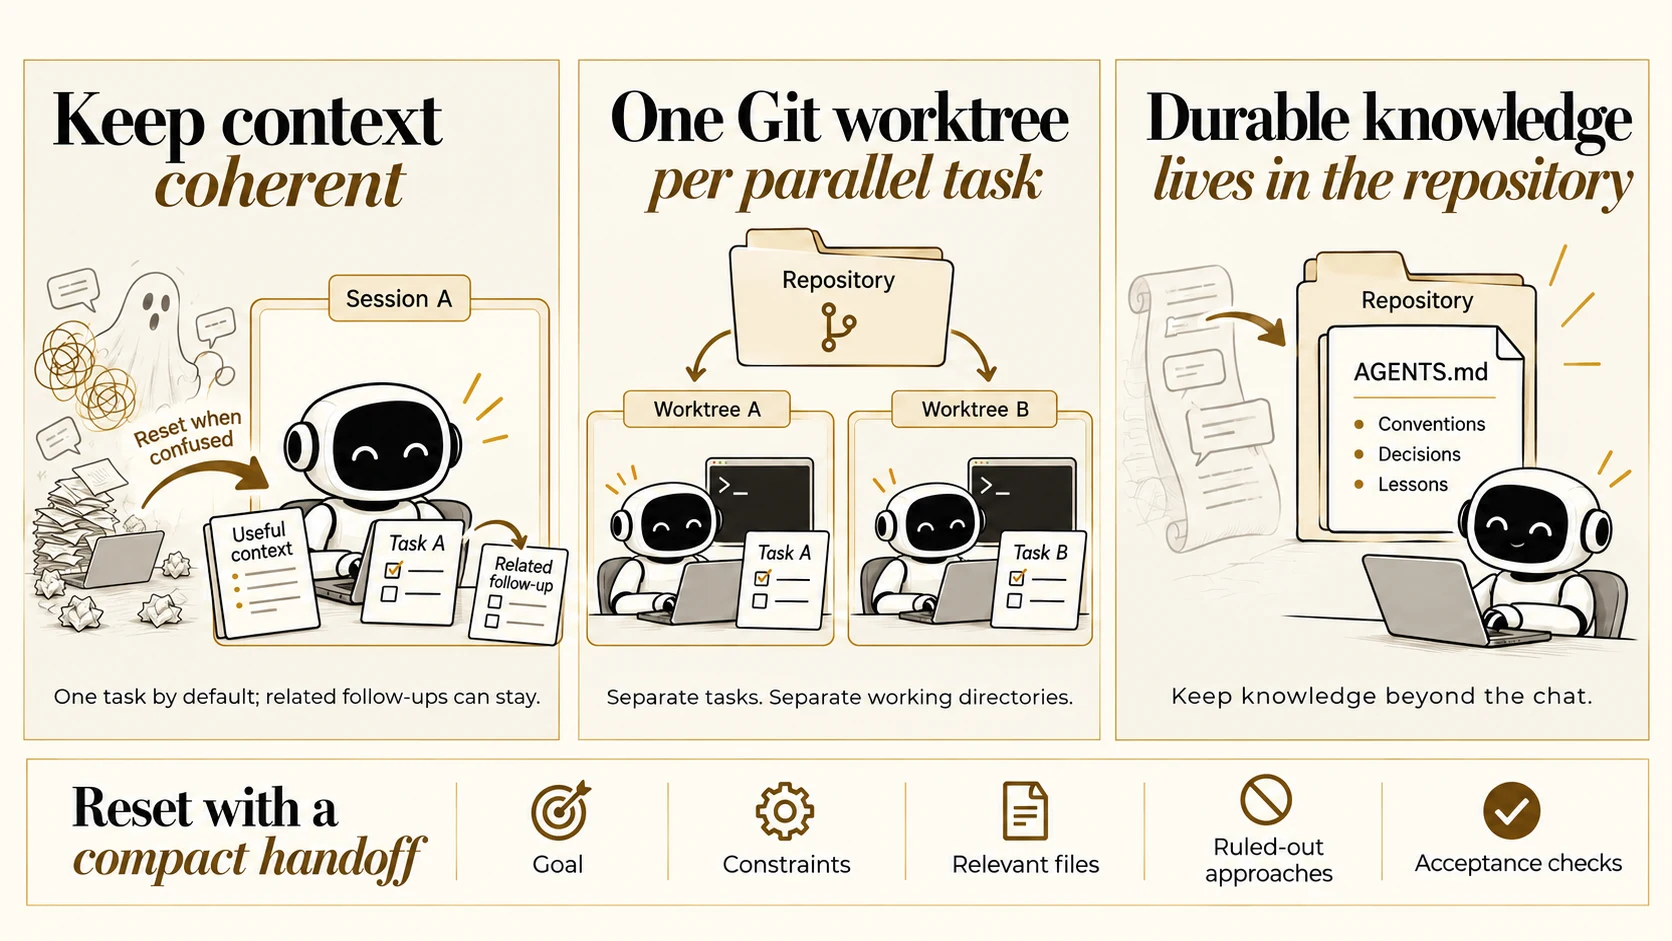
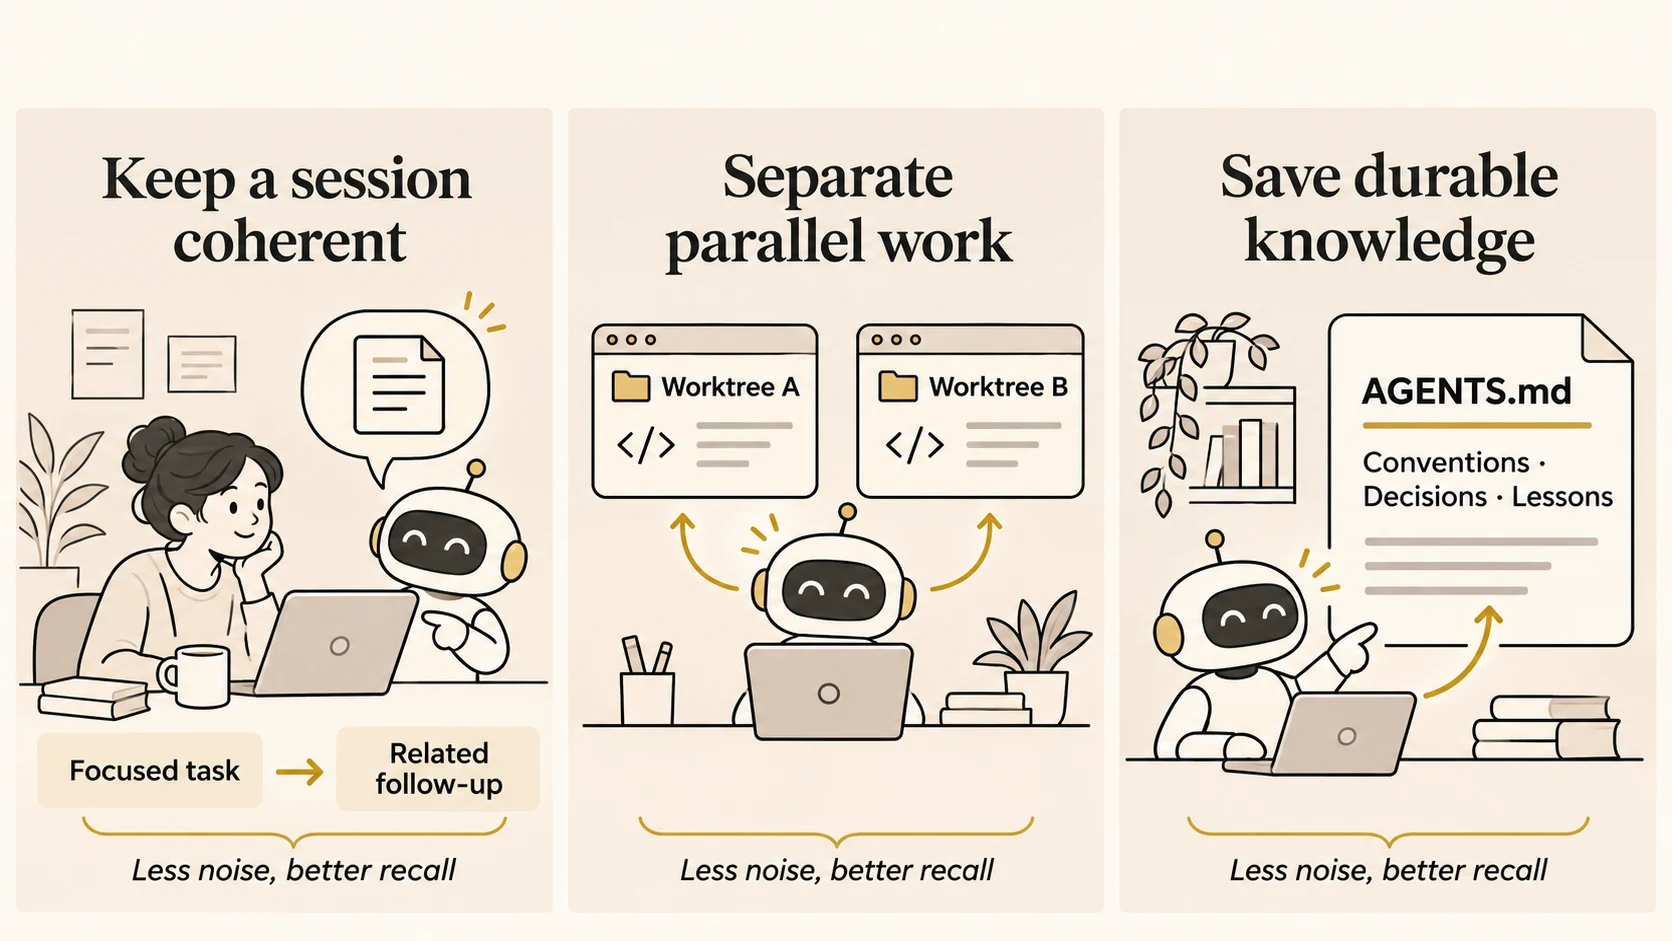
feat(slides): clarify context and quality checks

diff --git a/media/README.md b/media/README.md
@@ -4,10 +4,11 @@ The rule illustrations use built-in image generation and a shared editorial
 style. `devex-agentex.webp`, `one-command-setup.webp`, `session-hygiene.webp`,
 and `know-thy-tools.webp` are the visual references for new and restyled art.
 The quality-gates practice example uses a generated Ruff F841 feedback
-loop; the setup contrast illustrates a shared
-one-command entry point. The automation examples demonstrate dependency
-updates and PR screenshot workflows. The tool-affordance examples were checked against
-current official docs. Final assets are WebP; the social card is the deck's
+loop. Context rot and its management are shown in a paired illustration
+sequence. The setup contrast illustrates a shared one-command entry point.
+The automation examples demonstrate dependency updates and PR screenshot
+workflows. The tool-affordance examples were checked against current official
+docs. Final assets are WebP; the social card is the deck's
 typography and palette reference. The social card already matched the theme
 and was retained.
 
@@ -104,56 +105,25 @@ brown cast and heavy shading, and retain all three example flows and labels.
 
 The closing example shows a feature request flowing through coding, a pull
 request with UI screenshots and a red-and-green diff, automated quality gates,
-an independent review loop, and agent-led merge. A magnified inset makes the
-example's strict quality harness concrete and ends with an ellipsis to indicate
-additional checks. The slide notes explain that repository owners set explicit
-risk boundaries for automatic merges and retain human review for higher-risk
-work. It is based on the public chatbot-template repository.
+an independent review loop, and agent-led merge. The magnified checklist names
+17 checks included in `make qa`, set in smaller type to retain a light, spacious
+composition. An ellipsis indicates that the repository's checks continue. The
+slide notes distinguish these gates from the wider CI workflow and explain
+that checks provide evidence for human judgement.
 
-```text
-Create a polished 16:9 landscape editorial infographic for a software
-engineering presentation, with warm ivory canvas, warm stone panels,
-near-black pen-and-ink linework, restrained deep-gold hairlines and arrows,
-refined serif headings, and clear sans-serif labels. Crisp high contrast,
-readable at 880×495 pixels, generous whitespace, consistent visual weight.
-Use square-cornered light ivory or warm-stone panels, fine near-black ink
-outlines, and restrained gold accents. Green and red are reserved for the
-meaningful added and removed lines in the code diff; use gold for quality
-checks and workflow markers.
+The inset labels are File naming, Backend format, Config format, Markdown
+format, Backend lint, Markdown lint, Spell check, Workflow lint, Link check,
+Type check, API schema, Dependency audit, Backend tests, Mutation tests, Type
+coverage, Frontend QA, and Security scan.
 
-Show one clear left-to-right causal flow across the upper half: developer
-submits a card labelled “Feature request” → a coding agent works in a repository
-→ a pull request appears with two tiny browser screenshot thumbnails labelled
-“UI screenshots” and a small unified code diff → automated QA gates → an
-independent reviewer agent checks the diff. A small “Findings” arrow loops
-from reviewer back to coding agent.
-From the reviewer, a clear forward arrow labelled with a deep-gold check leads
-to the coding agent merging; at far right, show the completed feature running in
-a small web app. Keep every other arrow flowing left-to-right. No human should
-appear at review or verification. In the pull-request station, include a
-compact unified code diff with pale red removed lines and pale green added
-lines, using familiar minus and plus signs.
+## context-rot.webp
 
-In the lower half, add a prominent, clean zoom-in inset attached to the
-automated QA stage by a fine gold leader line and magnifier cue. Inset heading
-exactly “QUALITY HARNESS”; subheading exactly “example gates”. Inside, show
-exactly eight large, neatly aligned checklist items in two columns: “100% code
-coverage”; “100% type coverage”; “Benchmarks”; “0 lint issues”; “0 warnings”;
-“Mutation testing”; “Accessibility”; “SEO”. Use one restrained
-deep-gold check icon per item. Add a small, centred “… and more” below the
-checks to show the list continues. Spelling must be exact. Keep all panel fills light ivory or
-warm stone; use dark ink for text and linework, never dark-filled boxes. The
-callout should look like a compact quality checklist and feel strict, not like
-a dashboard. Make the entire image a single coherent infographic.
-
-No overall title, no footer, no disclaimer or other added text, no logos, no
-gradients, no watermark. Do not show a human review stage, queues, bottlenecks,
-or unrelated panels.
-```
-
-Final built-in image edit: replace the performance gate with “Mutation testing”,
-keep “Benchmarks” as a separate gate, and preserve the airy light panels and
-restrained gold accents.
+The first session-hygiene slide illustrates how stale assumptions, repeated
+corrections, and contradictory instructions accumulate as context grows, then
+lead an agent to miss a current requirement or revive a rejected approach. A
+battery gauge represents usable context draining from 100% as recall degrades.
+Its companion `session-hygiene.webp` shows focused related work, isolated
+parallel tasks, and durable repository knowledge as ways to keep context useful.
 
 ## sdlc-conclusion.webp
 
@@ -278,20 +248,11 @@ BOTTOM of the RIGHT panel: three large readable steps connected left to right wi
 
 ## session-hygiene.webp
 
-Updated with built-in image generation to match the qualified rule. The
-previous version of the same asset is the sole edit target and style
-reference; it remains available in Git history. The complete prompt follows.
-
-```text
-Use case: productivity-visual.
-Asset type: landscape 16:9 Quarto presentation illustration.
-Input image 1: edit target, existing session-hygiene illustration. Preserve its robot character, elegant Bodoni/Didot headings, Montserrat-like labels, flat ivory #fdfaf3 and stone #e9e5db palette, near-black #141414 ink, gold #dac284 hairline borders ONLY, dark brown #7d6020 text emphasis, square panels, generous spacing, professional pen-and-ink style. No bright colours, gradients, glossy 3D, watermark, or slide title.
-Primary request: reflect COHERENT context rather than obligatory fresh context, while keeping worktree isolation and durable repository knowledge. Keep the three-panel layout and compact bottom handoff strip. Edit LEFT panel and BOTTOM strip; CENTRE and RIGHT content and message stay unchanged.
-LEFT heading exactly "Keep context coherent". In one workspace labelled "Session A", show the same focused robot consulting an existing notes sheet labelled "Useful context" and a main sheet labelled "Task A", with a small adjacent connected sheet labelled "Related follow-up". Convey that a related follow-up uses the same coherent session. A small secondary haunted/tangled-chat vignette has a reset arrow towards the workspace, but label that arrow exactly "Reset when confused". This vignette must not dominate. Caption exactly "One task by default; related follow-ups can stay." No "Fresh context", no absolute "One task per session".
-CENTRE: preserve heading "One Git worktree per parallel task", repository branching to isolated Worktree A / Task A and Worktree B / Task B, each with friendly robot and terminal. Caption "Separate tasks. Separate working directories."
-RIGHT: preserve heading "Durable knowledge lives in the repository", Repository containing AGENTS.md with "Conventions", "Decisions", "Lessons", useful chat knowledge flowing into the document and robot consulting it. Caption "Keep knowledge beyond the chat."
-BOTTOM: title exactly "Reset with a compact handoff". Five readable fields, with understated line icons: "Goal", "Constraints", "Relevant files", "Ruled-out approaches", "Acceptance checks". Fit all five without tiny text. All text exact, legible at 880 px display width. Keep the image at 16:9.
-```
+The second session-hygiene slide shows three ways to manage context: keep a
+focused task coherent with a related follow-up, isolate parallel work in
+separate Git worktrees, and save durable conventions, decisions, and lessons
+in `AGENTS.md` for future sessions. Each panel connects the practice to less
+noise and better recall.
 
 ## meta-automation.webp
 
@@ -479,12 +440,6 @@ Keep the top main title exactly "Example affordances that users miss" at its cur
 
 ```text
 Use case: precise-object-edit. Edit only the lower-right panel headline of this presentation illustration. Replace BOTH existing headline lines ("Delusions of grandeur." and the smaller subtitle beneath it) with a SINGLE elegant line reading exactly "Avoid grandiosity" centred above the three colleagues. Remove the subtitle completely; leave clean ivory space. Keep all other text, characters, linework, panels, typography, colours, canvas dimensions, and composition unchanged. No extra text.
-```
-
-### session-hygiene
-
-```text
-Use case: precise-object-edit. Edit only the central reset caption. Keep the large word "Reset" and its circular-arrow icon. Remove the two small words "ENDLESS CONTINUATION" below "Reset", leaving clean ivory space in their place. Preserve the rest of this illustration exactly, including all other labels, characters, panels, palette, typography, canvas dimensions, and layout.
 ```
 
 ## Integration checks
